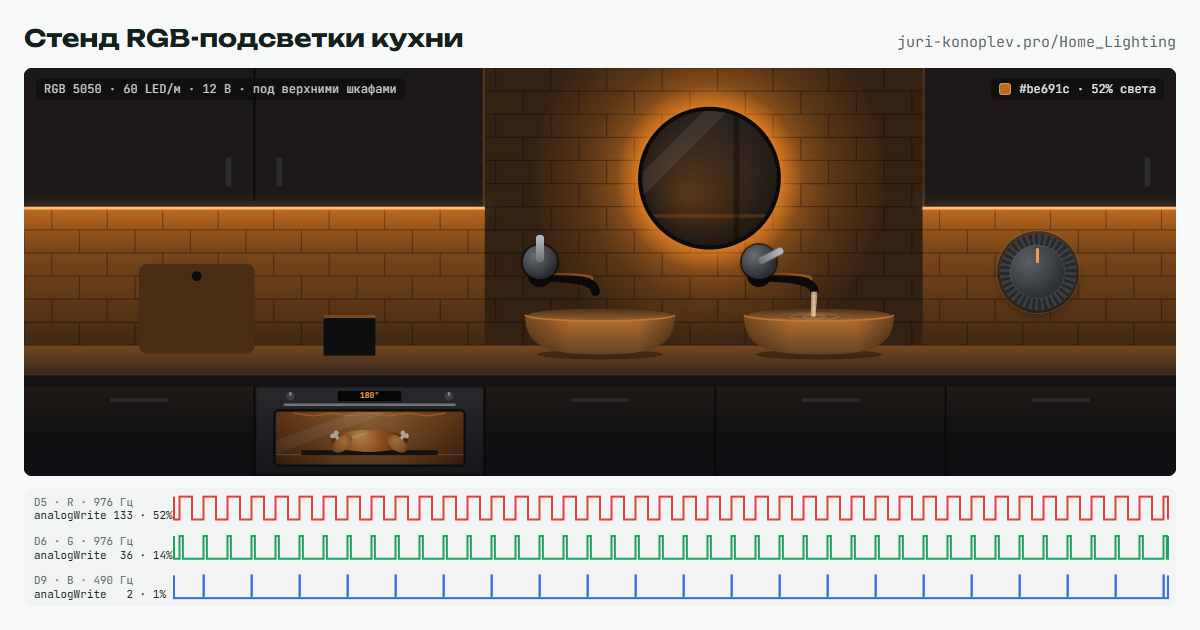
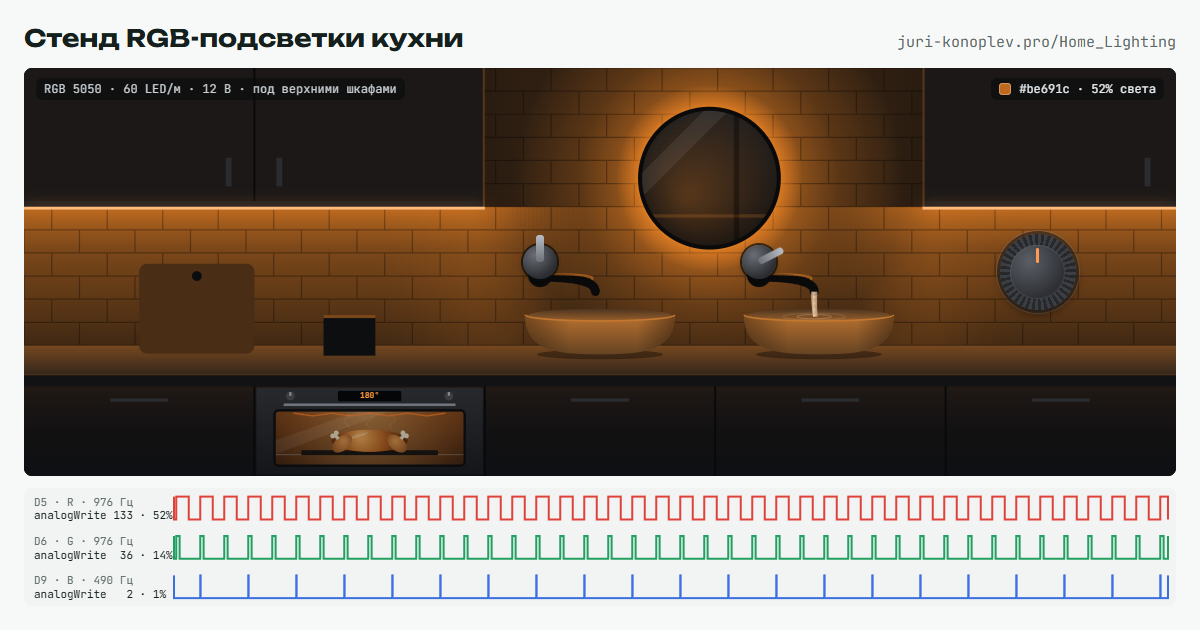
Кухня: плавный переход света между шкафами и проёмом с зеркалом
Свет ленты под шкафами и свет ореола зеркала теперь смешиваются плавной
маской по ширине: лента мягко затухает внутрь проёма, ореол растекается
под шкафы. Вертикальных швов у краёв проёма больше нет.

Changed region(s): [[0.1233, 0.7841, 0.9867, 0.9349], [0.4008, 0.3016, 0.5242, 0.573], [0.6475, 0.3016, 0.7708, 0.573]]

diff --git a/docs/js/scene.js b/docs/js/scene.js
@@ -53,16 +53,26 @@ function drawRoom(disp, lin, tm, dt) {
   const gap0 = SC.cabs[0][1] * W, gap1 = SC.cabs[1][0] * W;
   const m = { x: SC.mirror.x * W, y: SC.mirror.y * H, r: SC.mirror.r * H };
   x.fillStyle = '#0b0c0e'; x.fillRect(0, 0, W, H);
-  // Фартук под шкафами: свет ленты падает сверху вниз и слабеет к столешнице
-  SC.cabs.forEach(([c0, c1]) => {
-    const bg = x.createLinearGradient(0, cabB, 0, topY);
-    bg.addColorStop(0, L(0.95)); bg.addColorStop(0.3, L(0.62)); bg.addColorStop(1, L(0.3));
-    x.fillStyle = bg; x.fillRect(c0 * W, cabB, (c1 - c0) * W, topY - cabB);
-  });
-  // Открытая стена над мойкой: её освещает ореол вокруг зеркала
-  const hg = x.createRadialGradient(m.x, m.y, m.r * 0.9, m.x, m.y, m.r * 2.6);
-  hg.addColorStop(0, L(0.9)); hg.addColorStop(0.5, L(0.45)); hg.addColorStop(1, L(0.22));
-  x.fillStyle = hg; x.fillRect(gap0, 0, gap1 - gap0, topY);
+  // Свет на стене — два слоя, смешанные плавной маской по ширине (без швов у краёв проёма):
+  // лента под шкафами светит сверху вниз и затухает внутрь проёма,
+  // ореол зеркала освещает проём и мягко растекается под шкафы.
+  const g0 = SC.cabs[0][1], g1 = SC.cabs[1][0];
+  const smooth = (e0, e1, v) => { const k = clamp((v - e0) / (e1 - e0), 0, 1); return k * k * (3 - 2 * k); };
+  const inGap = (fx) => Math.min(fx - g0, g1 - fx);  // >0 внутри проёма, <0 под шкафами
+  const strip = x.createLinearGradient(0, cabB, 0, topY);
+  strip.addColorStop(0, L(0.95)); strip.addColorStop(0.3, L(0.62)); strip.addColorStop(1, L(0.3));
+  const hg = x.createRadialGradient(m.x, m.y, m.r * 0.9, m.x, m.y, m.r * 2.8);
+  hg.addColorStop(0, L(0.9)); hg.addColorStop(0.5, L(0.45)); hg.addColorStop(1, L(0.2));
+  const SLICES = Math.ceil(W / 4), sw = W / SLICES;  // срез ~4 px: маска без видимых ступенек
+  for (let i = 0; i < SLICES; i++) {
+    // целые пиксели без перекрытия, иначе на стыках срезов проступают полоски
+    const d = inGap((i + 0.5) / SLICES), sx0 = Math.round(i * sw), sw0 = Math.round((i + 1) * sw) - sx0;
+    x.globalAlpha = 1 - 0.8 * smooth(-0.02, 0.1, d);          // лента: 1 под шкафами → 0.2 в глубине проёма
+    x.fillStyle = strip; x.fillRect(sx0, cabB, sw0, topY - cabB);
+    x.globalAlpha = smooth(-0.1, 0.04, d);                    // ореол: 0 далеко под шкафами → 1 в проёме
+    x.fillStyle = hg; x.fillRect(sx0, 0, sw0, topY);
+  }
+  x.globalAlpha = 1;
   // плитка «кабанчик» до потолка; под шкафами её потом закроют сами шкафы
   const rows = 6, th = (topY - cabB) / rows, tw = th * 2.4;
   x.strokeStyle = 'rgba(0,0,0,.32)'; x.lineWidth = Math.max(1, H * 0.003);
